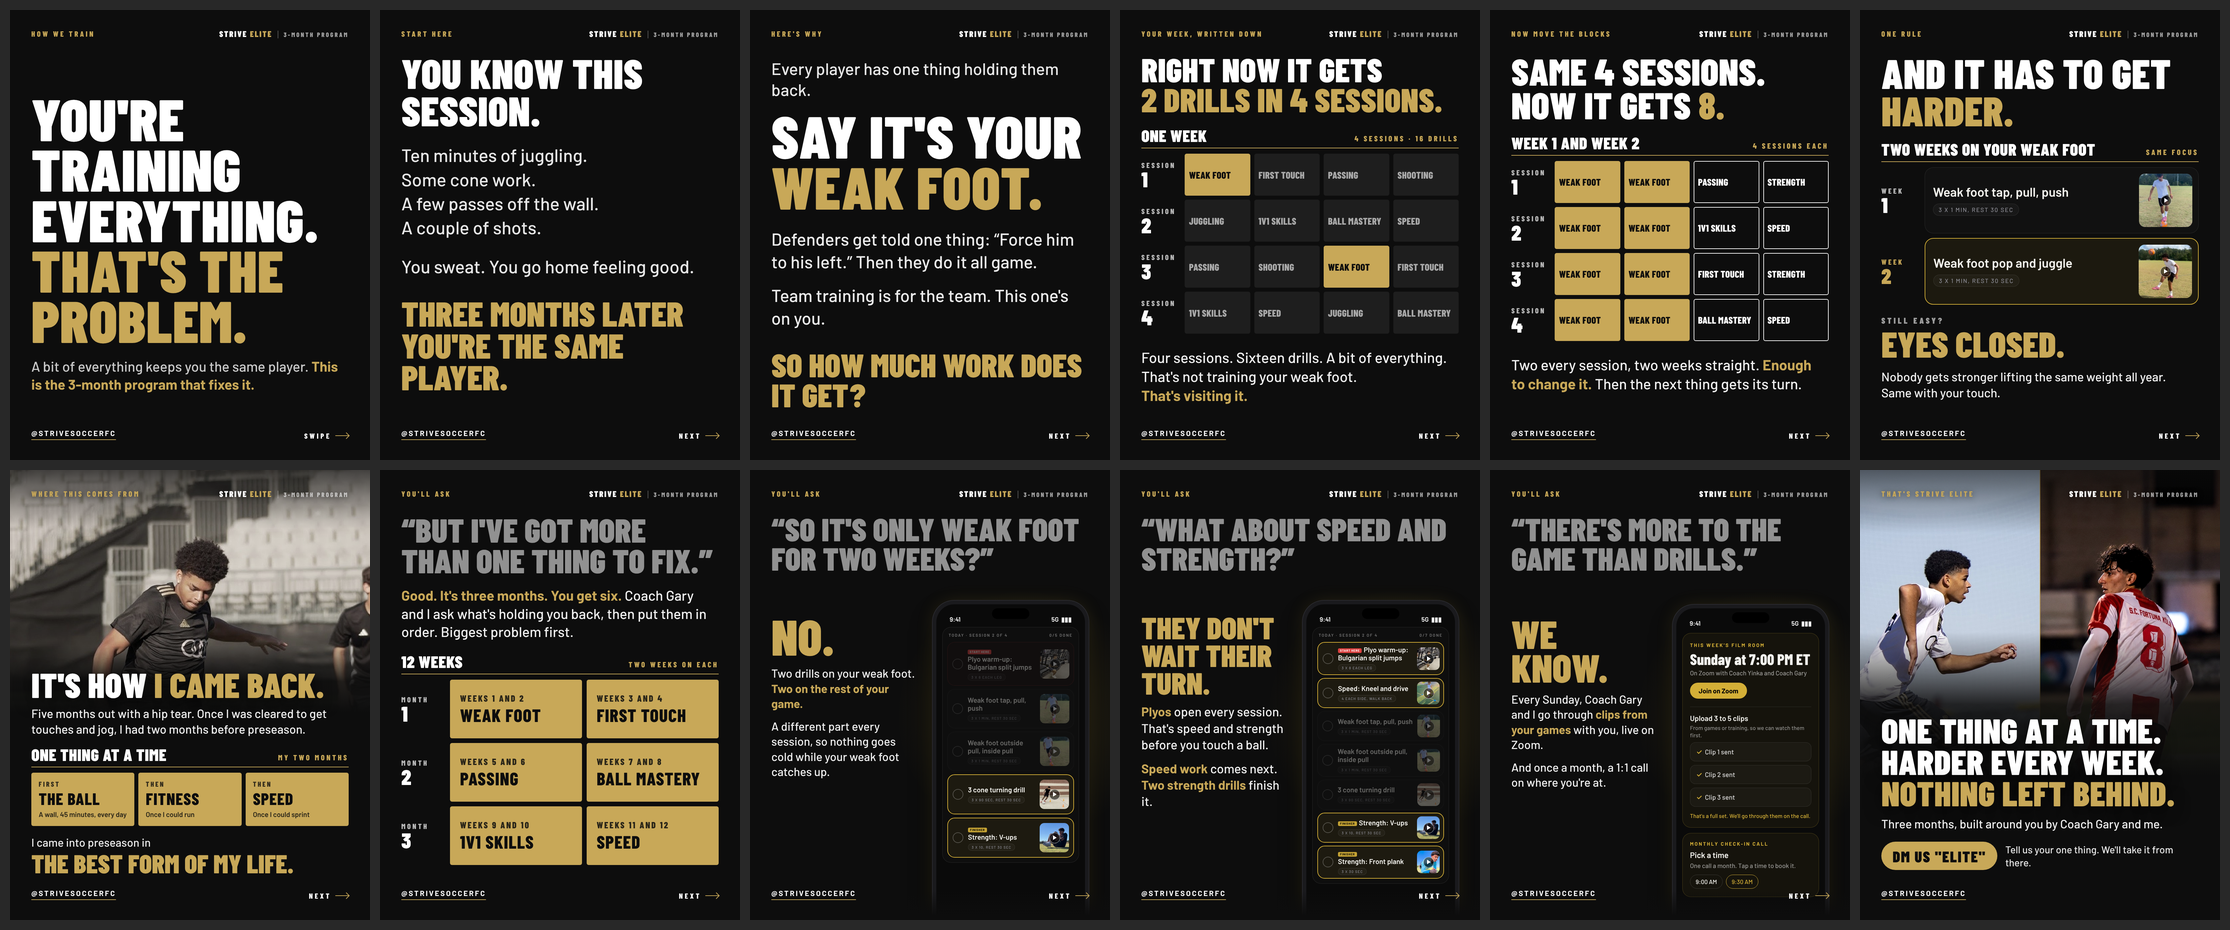
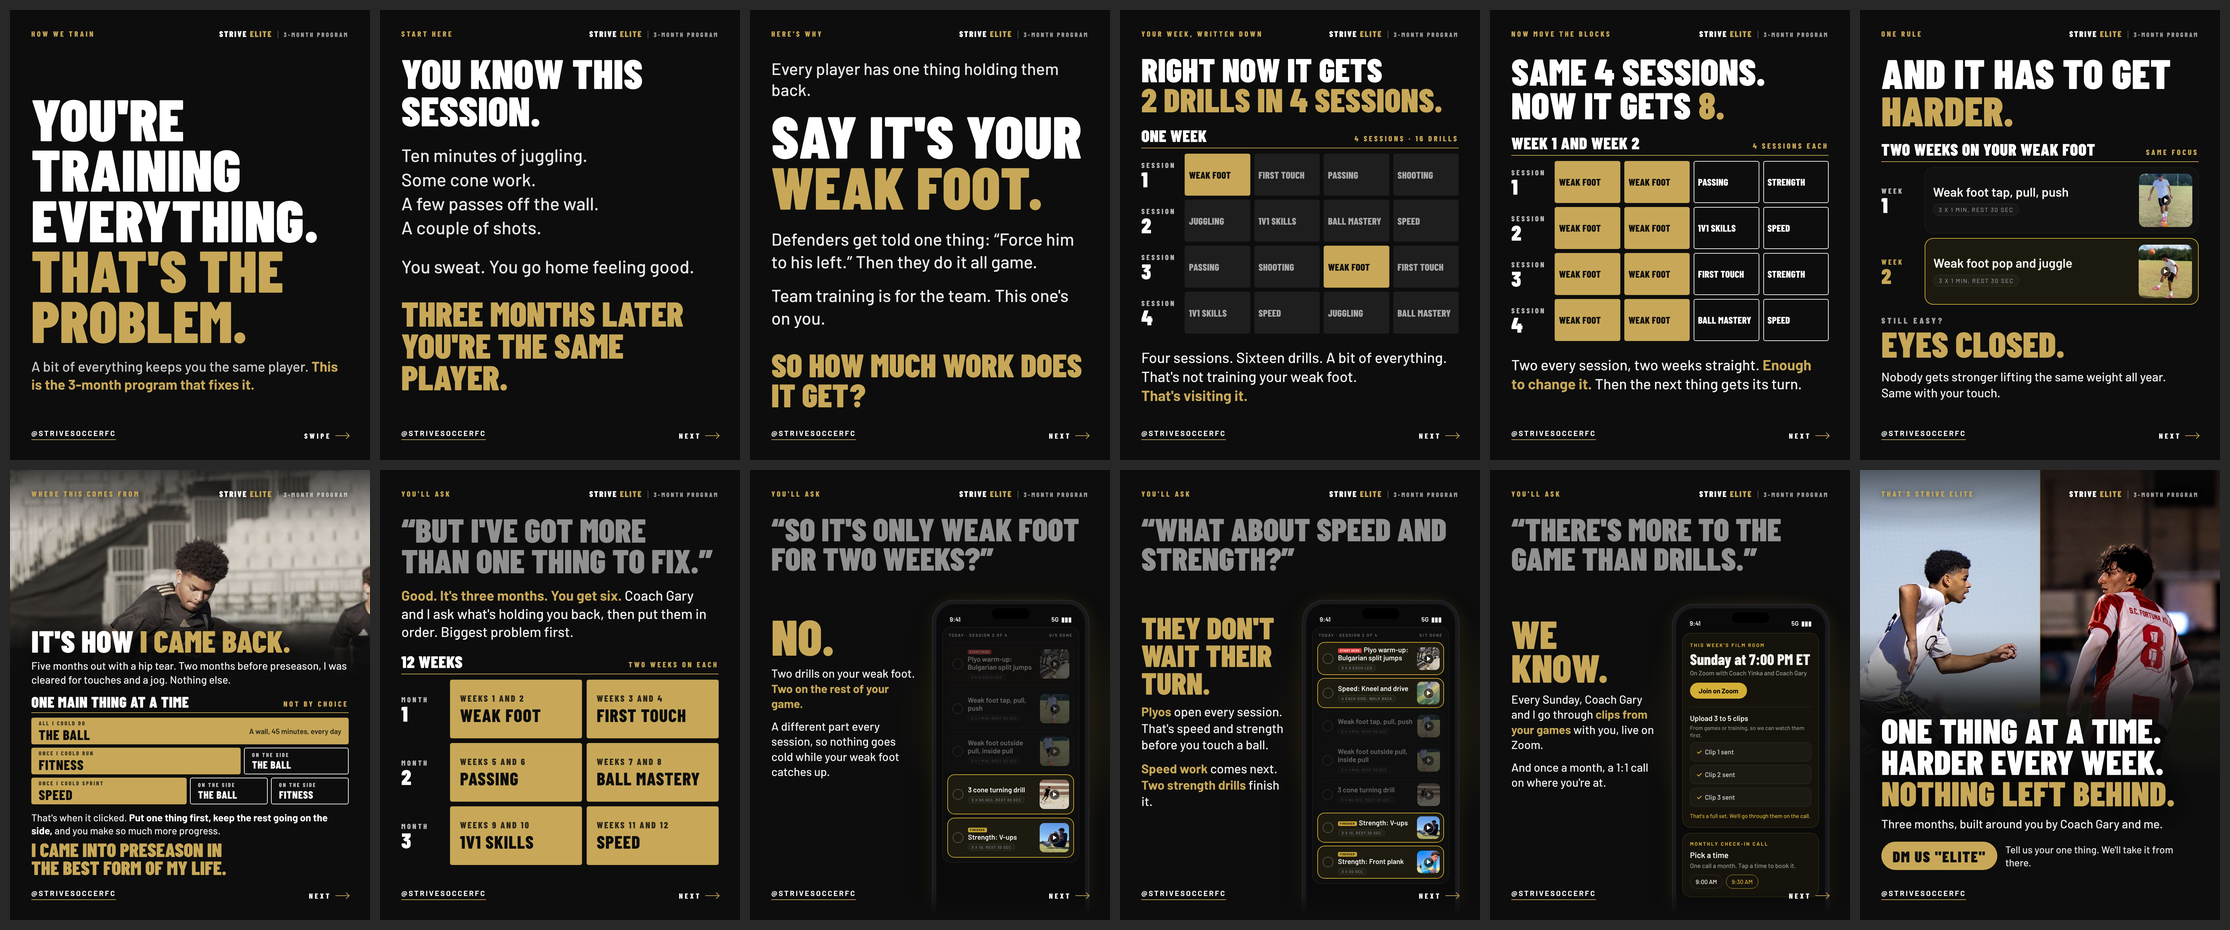
Opinion carousel: comeback slide shows one main thing at a time, forced by the injury
Claude-Session: https://claude.ai/code/session_011JsCTTjCbUkHbTuWTKQSXJ

Changed region(s): [[0.0, 0.6548, 0.1857, 0.9667]]

diff --git a/marketing/program/one-thing-carousel-3/07-story.html b/marketing/program/one-thing-carousel-3/07-story.html
@@ -1,26 +1,38 @@
 <!doctype html><meta charset="utf-8"><link rel="stylesheet" href="../../covers/strive-elite-meeting/fonts.css"><link rel="stylesheet" href="style.css"><title>How I came back</title>
 <style>
 .ph{position:absolute;inset:0;background:url(photos/story.jpg) center top/1080px 1350px;filter:saturate(.8) contrast(1.05)}
-.sh{position:absolute;inset:0;background:linear-gradient(180deg,rgba(13,13,13,.72) 0%,rgba(13,13,13,0) 13%,rgba(13,13,13,0) 39%,rgba(13,13,13,.9) 47%,#0d0d0d 54%,#0d0d0d 100%)}
-.low{position:absolute;left:64px;right:64px;bottom:134px}
-h1{font-size:104px;white-space:nowrap;text-shadow:0 8px 50px rgba(0,0,0,.7)}
-.p{margin-top:18px;font-size:36px;line-height:1.3}
-.sched{margin-top:30px}
-.tt3{display:grid;grid-template-columns:repeat(3,1fr);gap:12px}
-.tt3 .bk{height:160px;font-size:50px;padding:0 22px}
-.tt3 .bk small{font-size:21px;margin-bottom:8px;opacity:.8}
-.tt3 .bk i{display:block;margin-top:10px;font-family:'Barlow';font-style:normal;font-weight:600;font-size:21px;line-height:1.2;letter-spacing:0;text-transform:none;opacity:.85}
-.res{margin-top:28px}
-.res b{display:block;font-family:'Barlow Condensed';font-weight:900;font-size:78px;line-height:.94;text-transform:uppercase;color:#c8a858}
-.res span{display:block;font-size:34px;font-weight:500;color:rgba(255,255,255,.92);margin-bottom:6px}
+.sh{position:absolute;inset:0;background:linear-gradient(180deg,rgba(13,13,13,.72) 0%,rgba(13,13,13,0) 13%,rgba(13,13,13,0) 33%,rgba(13,13,13,.9) 40%,#0d0d0d 46%,#0d0d0d 100%)}
+.low{position:absolute;left:64px;right:64px;bottom:130px}
+h1{font-size:92px;white-space:nowrap;text-shadow:0 8px 50px rgba(0,0,0,.7)}
+.p{margin-top:14px;font-size:32px;line-height:1.3}
+.sched{margin-top:24px}
+.hd{padding-bottom:12px;margin-bottom:14px}
+.hd b{font-size:46px}
+.rows{display:grid;gap:10px}
+.rw{display:grid;gap:10px}
+.rw.a{grid-template-columns:1fr}
+.rw.b{grid-template-columns:2fr 1fr}
+.rw.c{grid-template-columns:2fr 1fr 1fr}
+.rw .bk{height:80px;font-size:42px;padding:0 22px;flex-direction:row;align-items:center;justify-content:space-between;gap:18px}
+.rw .bk small{display:block;font-size:17px;letter-spacing:.2em;margin-bottom:4px;opacity:.75}
+.rw .bk i{font-family:'Barlow';font-style:normal;font-weight:600;font-size:22px;line-height:1.2;letter-spacing:0;text-transform:none;opacity:.85;text-align:right}
+.rw .bk.w{font-size:32px;border-width:2px}
+.res{margin-top:20px}
+.res span{display:block;font-size:30px;line-height:1.3;font-weight:500;color:rgba(255,255,255,.92)}
+.res span b{font-weight:700;color:#fff}
+.res em{display:block;margin-top:10px;font-style:normal;font-family:'Barlow Condensed';font-weight:900;font-size:58px;line-height:.94;text-transform:uppercase;color:#c8a858}
 .top .wm,.top .step{text-shadow:0 2px 18px rgba(0,0,0,.8)}
 </style>
 <div class="ph"></div><div class="sh"></div>
 <div class="top"><div class="step">Where this comes from</div><div class="wm">Strive <span>Elite</span><em>3-month program</em></div></div>
 <div class="low">
 <h1>It's how <span>I came back.</span></h1>
-<p class="p">Five months out with a hip tear. Once I was cleared to get touches and jog, I had two months before preseason.</p>
-<div class="sched"><div class="hd"><b>One thing at a time</b><span>My two months</span></div>
-<div class="tt3"><div class="bk g"><small>First</small>The ball<i>A wall, 45 minutes, every day</i></div><div class="bk g"><small>Then</small>Fitness<i>Once I could run</i></div><div class="bk g"><small>Then</small>Speed<i>Once I could sprint</i></div></div></div>
-<div class="res"><span>I came into preseason in</span><b>the best form of my life.</b></div></div>
+<p class="p">Five months out with a hip tear. Two months before preseason, I was cleared for touches and a jog. Nothing else.</p>
+<div class="sched"><div class="hd"><b>One main thing at a time</b><span>Not by choice</span></div>
+<div class="rows">
+<div class="rw a"><div class="bk g"><div><small>All I could do</small>The ball</div><i>A wall, 45 minutes, every day</i></div></div>
+<div class="rw b"><div class="bk g"><div><small>Once I could run</small>Fitness</div></div><div class="bk w"><div><small>On the side</small>The ball</div></div></div>
+<div class="rw c"><div class="bk g"><div><small>Once I could sprint</small>Speed</div></div><div class="bk w"><div><small>On the side</small>The ball</div></div><div class="bk w"><div><small>On the side</small>Fitness</div></div></div>
+</div></div>
+<div class="res"><span>That's when it clicked. <b>Put one thing first, keep the rest going on the side,</b> and you make so much more progress.</span><em>I came into preseason in<br>the best form of my life.</em></div></div>
 <div class="handle">@strivesoccerfc</div><div class="swipe">Next <i></i></div>

diff --git a/CLAUDE.md b/CLAUDE.md
@@ -4034,6 +4034,7 @@ commit.
       THEN (Coach Yinka: "Send final"): THE FINAL TWELVE RE-SENT, re-rendered from source in posting order, slide 10 with the plyo warm-up, the speed drill and both finishers (V-ups, Front plank) lit and pictured; caption unchanged in the README. NOT POSTED. Still his: "30 day" versus the 3-month program on the slides; "Eyes closed" under pop and juggle; the app places one finisher a session where slide 10 shows two; Carla's ELITE reply should expect "your one thing".
       THEN (Coach Yinka: "For the 3rd instead of defenders work it out say 'force him to his left' and the 4th say 2 drills in 4 sessions"): slide 3 reads "Defenders get told one thing: 'Force him to his left.' Then they do it all game." (his phrase, my sentence around it; "defenders work it out in ten minutes" is gone); slide 4's headline is "RIGHT NOW IT GETS 2 DRILLS IN 4 SESSIONS." Both re-rendered and sent; the other ten unchanged. Not posted.
       THEN (Coach Yinka: "Okay send final"): THE FINAL TWELVE SENT, all re-rendered from source in posting order with slide 3 ("Force him to his left.") and slide 4 ("2 drills in 4 sessions") as changed; caption unchanged in the README. NOT POSTED. Still his: "30 day" versus the 3-month program on the slides; "Eyes closed" under pop and juggle; slide 10 shows two finishers where the app places one; Carla's ELITE reply should expect "your one thing".
+      THEN (Coach Yinka: "for my story ... it seems like I was only working on speed and fitness after the ball ... it doesn't correctly communicate how I could only work on the wall, and then I was able to work on fitness, and then I was able to work on speed ... the reason that it was so effective is because I was forced to just work on one thing at a time, and that's when I came up with this discovery that when you focus on one thing primarily while obviously working on the others on the side, you make so much more progress"): THE COMEBACK SLIDE REBUILT around that (07-story). "Five months out with a hip tear. Two months before preseason, I was cleared for touches and a jog. Nothing else." / schedule header ONE MAIN THING AT A TIME, right side NOT BY CHOICE / three rows in the post's own colours (gold the main thing, white what stayed on the side): All I could do THE BALL (a wall, 45 minutes, every day); Once I could run FITNESS with the ball on the side; Once I could sprint SPEED with the ball and fitness on the side / "That's when it clicked. Put one thing first, keep the rest going on the side, and you make so much more progress." / I CAME INTO PRESEASON IN THE BEST FORM OF MY LIFE. Headline and photo unchanged; the headline sits a little higher over his chest to make room. "Nothing else" and "That's when it clicked" are my wording of his point, his to check. Caption unchanged. Sent, not posted.
 
 ## Skills (use them without being asked)
 

diff --git a/marketing/program/one-thing-carousel-3/README.md b/marketing/program/one-thing-carousel-3/README.md
@@ -63,12 +63,18 @@ the strength finisher or the speed drill.
    Nobody gets stronger lifting the same weight all year. Same with your
    touch.
 7. His strike photo in the black NVA training kit, him centred, across
-   the top half. / IT'S HOW I CAME BACK. / Five months out with a hip
-   tear. Once I was cleared to get touches and jog, I had two months
-   before preseason. / ONE THING AT A TIME, my two months: first the ball
-   (a wall, 45 minutes, every day), then fitness (once I could run), then
-   speed (once I could sprint). / I came into preseason in THE BEST FORM
-   OF MY LIFE. (His words and his photo, Nov 11.)
+   the top. / IT'S HOW I CAME BACK. / Five months out with a hip tear.
+   Two months before preseason, I was cleared for touches and a jog.
+   Nothing else. / ONE MAIN THING AT A TIME, not by choice: three rows,
+   gold is the main thing, white is what stayed on the side. All I could
+   do: THE BALL (a wall, 45 minutes, every day). Once I could run:
+   FITNESS, the ball on the side. Once I could sprint: SPEED, the ball
+   and fitness on the side. / That's when it clicked. Put one thing
+   first, keep the rest going on the side, and you make so much more
+   progress. / I CAME INTO PRESEASON IN THE BEST FORM OF MY LIFE.
+   (Rewritten on his note that the old slide read as if the ball stopped
+   once fitness and speed started, and never said he was forced into one
+   thing at a time, which is where the structure comes from.)
 8. "BUT I'VE GOT MORE THAN ONE THING TO FIX." / Good. It's three months.
    You get six. Coach Gary and I ask what's holding you back, then put
    them in order. Biggest problem first.
